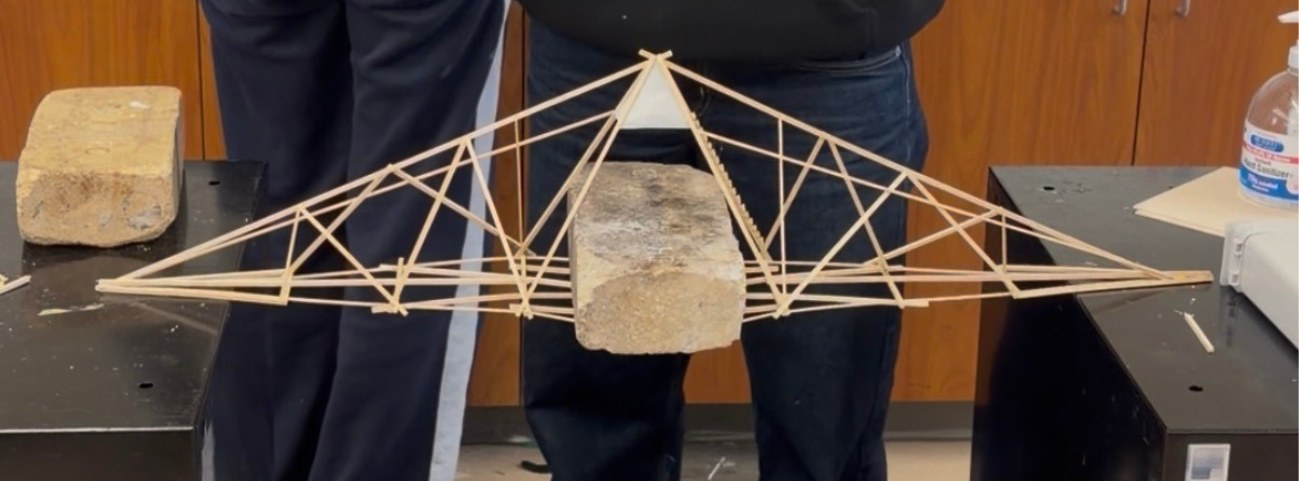
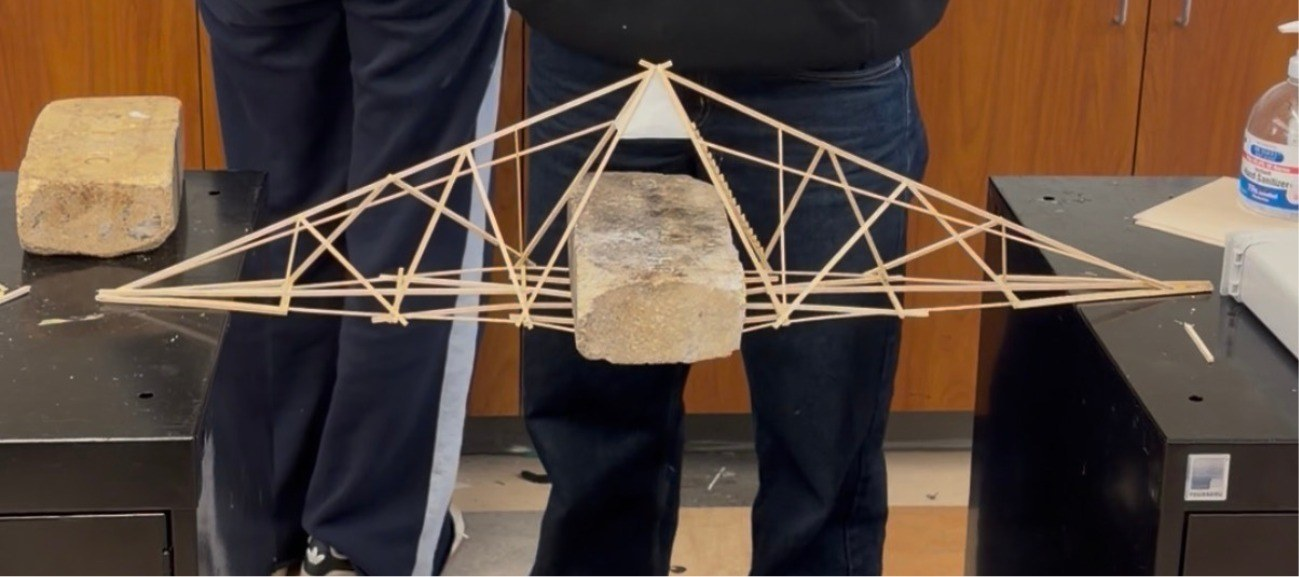
Bridge: show full load test photo
Claude-Session: https://claude.ai/code/session_01UHrP7f3T6PvekE7nxDfNFQ

diff --git a/index.html b/index.html
@@ -8,13 +8,13 @@
 <link rel="preconnect" href="https://fonts.googleapis.com">
 <link rel="preconnect" href="https://fonts.gstatic.com" crossorigin>
 <link rel="stylesheet" href="https://fonts.googleapis.com/css2?family=Archivo:wdth,wght@62..125,700..800&family=Bricolage+Grotesque:opsz,wdth,wght@12..96,75..100,400..800&family=Instrument+Sans:wght@400;500;600&family=Instrument+Serif:ital@1&family=Syne:wght@700..800&family=Archivo+Narrow:wght@500;600;700&display=swap">
-<link rel="stylesheet" href="css/style.css?v=202611152157">
+<link rel="stylesheet" href="css/style.css?v=202611152159">
 </head>
 <body>
 <div id="app"></div>
-<script>window.SITE_VERSION = "202611152157";</script>
-<script src="content/site.js?v=202611152157"></script>
-<script src="js/glyphs.js?v=202611152157"></script>
-<script src="js/app.js?v=202611152157"></script>
+<script>window.SITE_VERSION = "202611152159";</script>
+<script src="content/site.js?v=202611152159"></script>
+<script src="js/glyphs.js?v=202611152159"></script>
+<script src="js/app.js?v=202611152159"></script>
 </body>
 </html>

diff --git a/content/projects/bridge.js b/content/projects/bridge.js
@@ -32,7 +32,7 @@ addProject({
     ]},
     { type: "text", heading: "Design & Testing",
       body: "I made a diamond base to set my bridge apart from a regular truss. The base needed thin 1/16\" tension rods, which was a challenge. I used 1/8\" rods to keep the center rigid, then built up entirely with 1/8\" rods to keep the structure stable. I also added asymmetrical support beams to the upper chord to reflect its asymmetry." },
-    { type: "image", src: "assets/physical/bridge-test.jpg", ratio: "1299/481", caption: "4. Load test: holding the 25 lb brick" },
+    { type: "image", src: "assets/physical/bridge-test.jpg", ratio: "1299/577", maxWidth: "83%", caption: "4. Load test: holding the 25 lb brick" },
     { type: "text", heading: "Takeaway",
       body: "Building up the base won't do much. Building up is where you get the real structure." }
   ]
